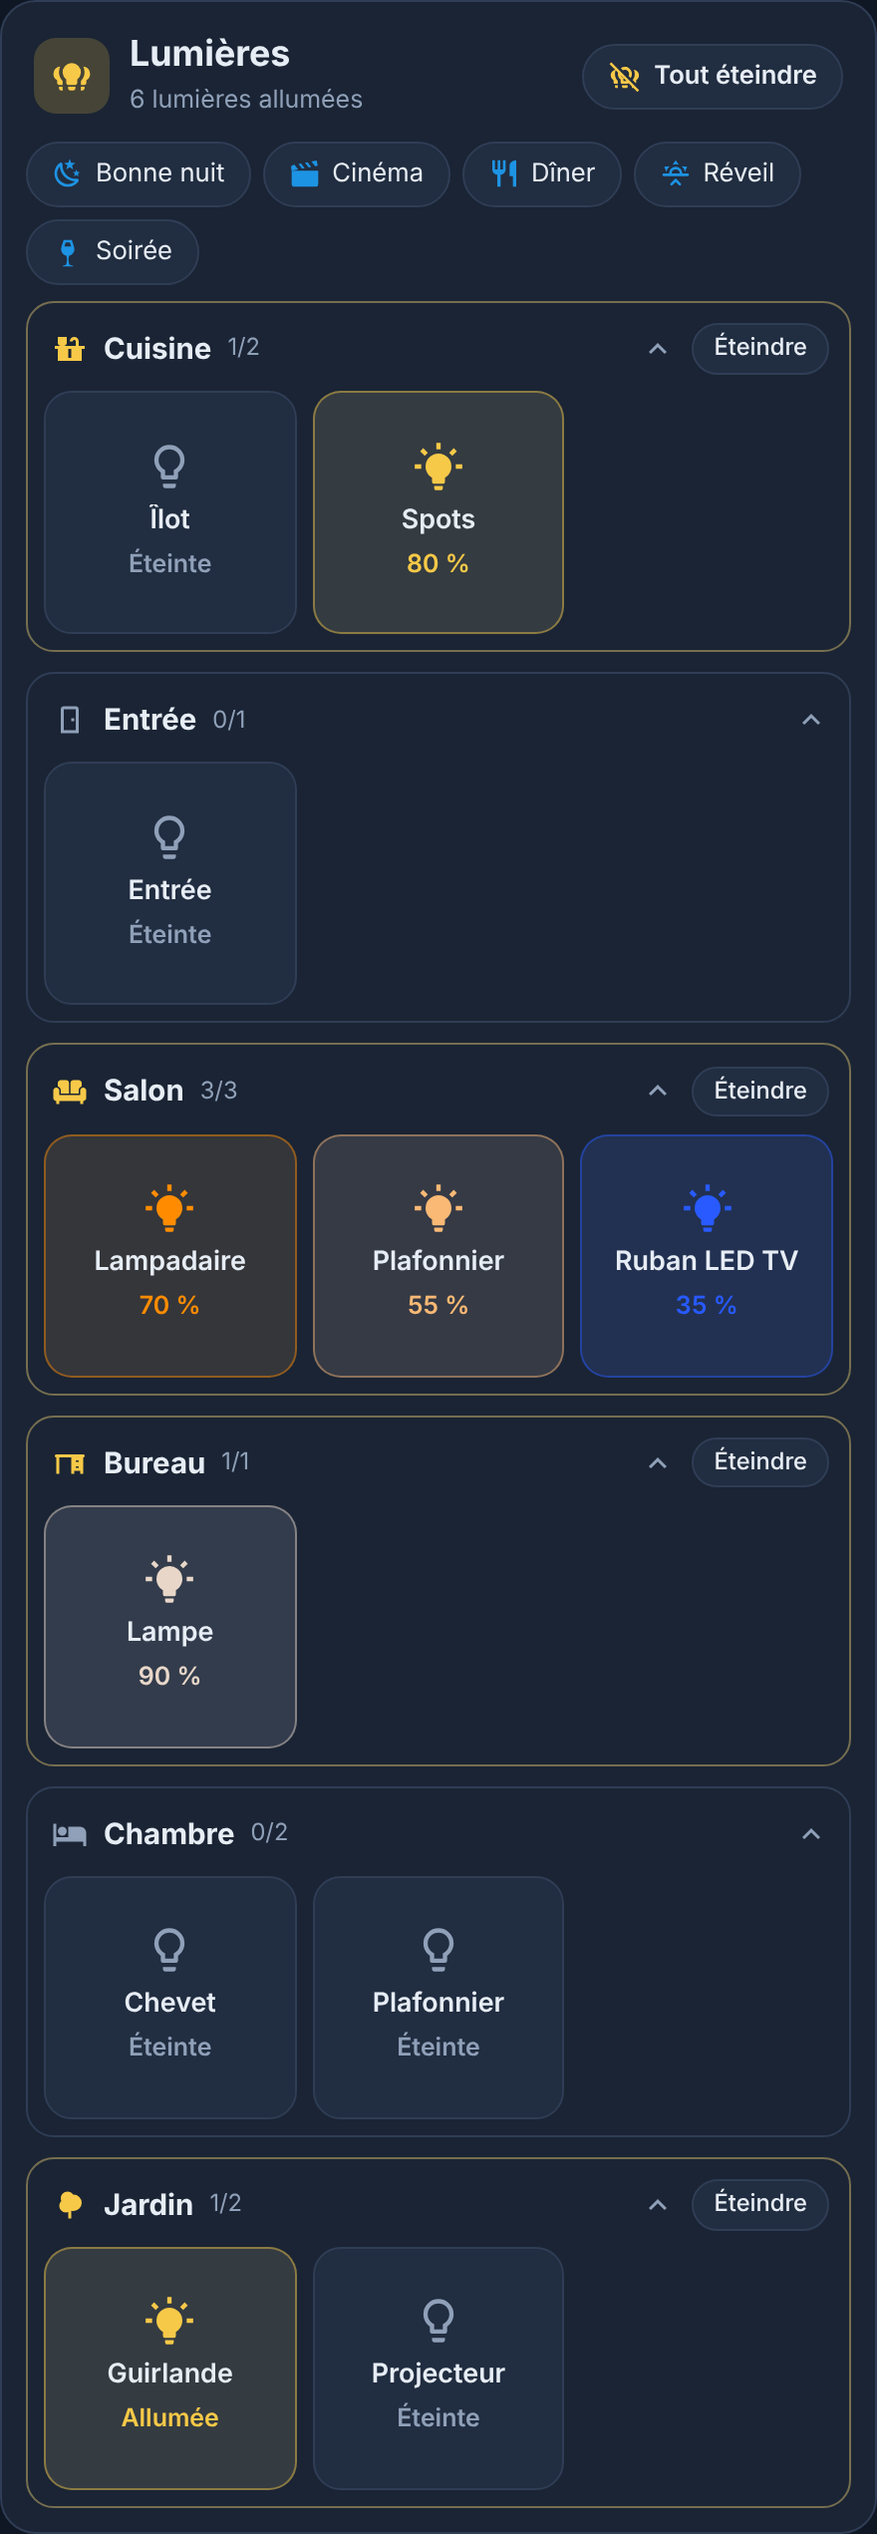
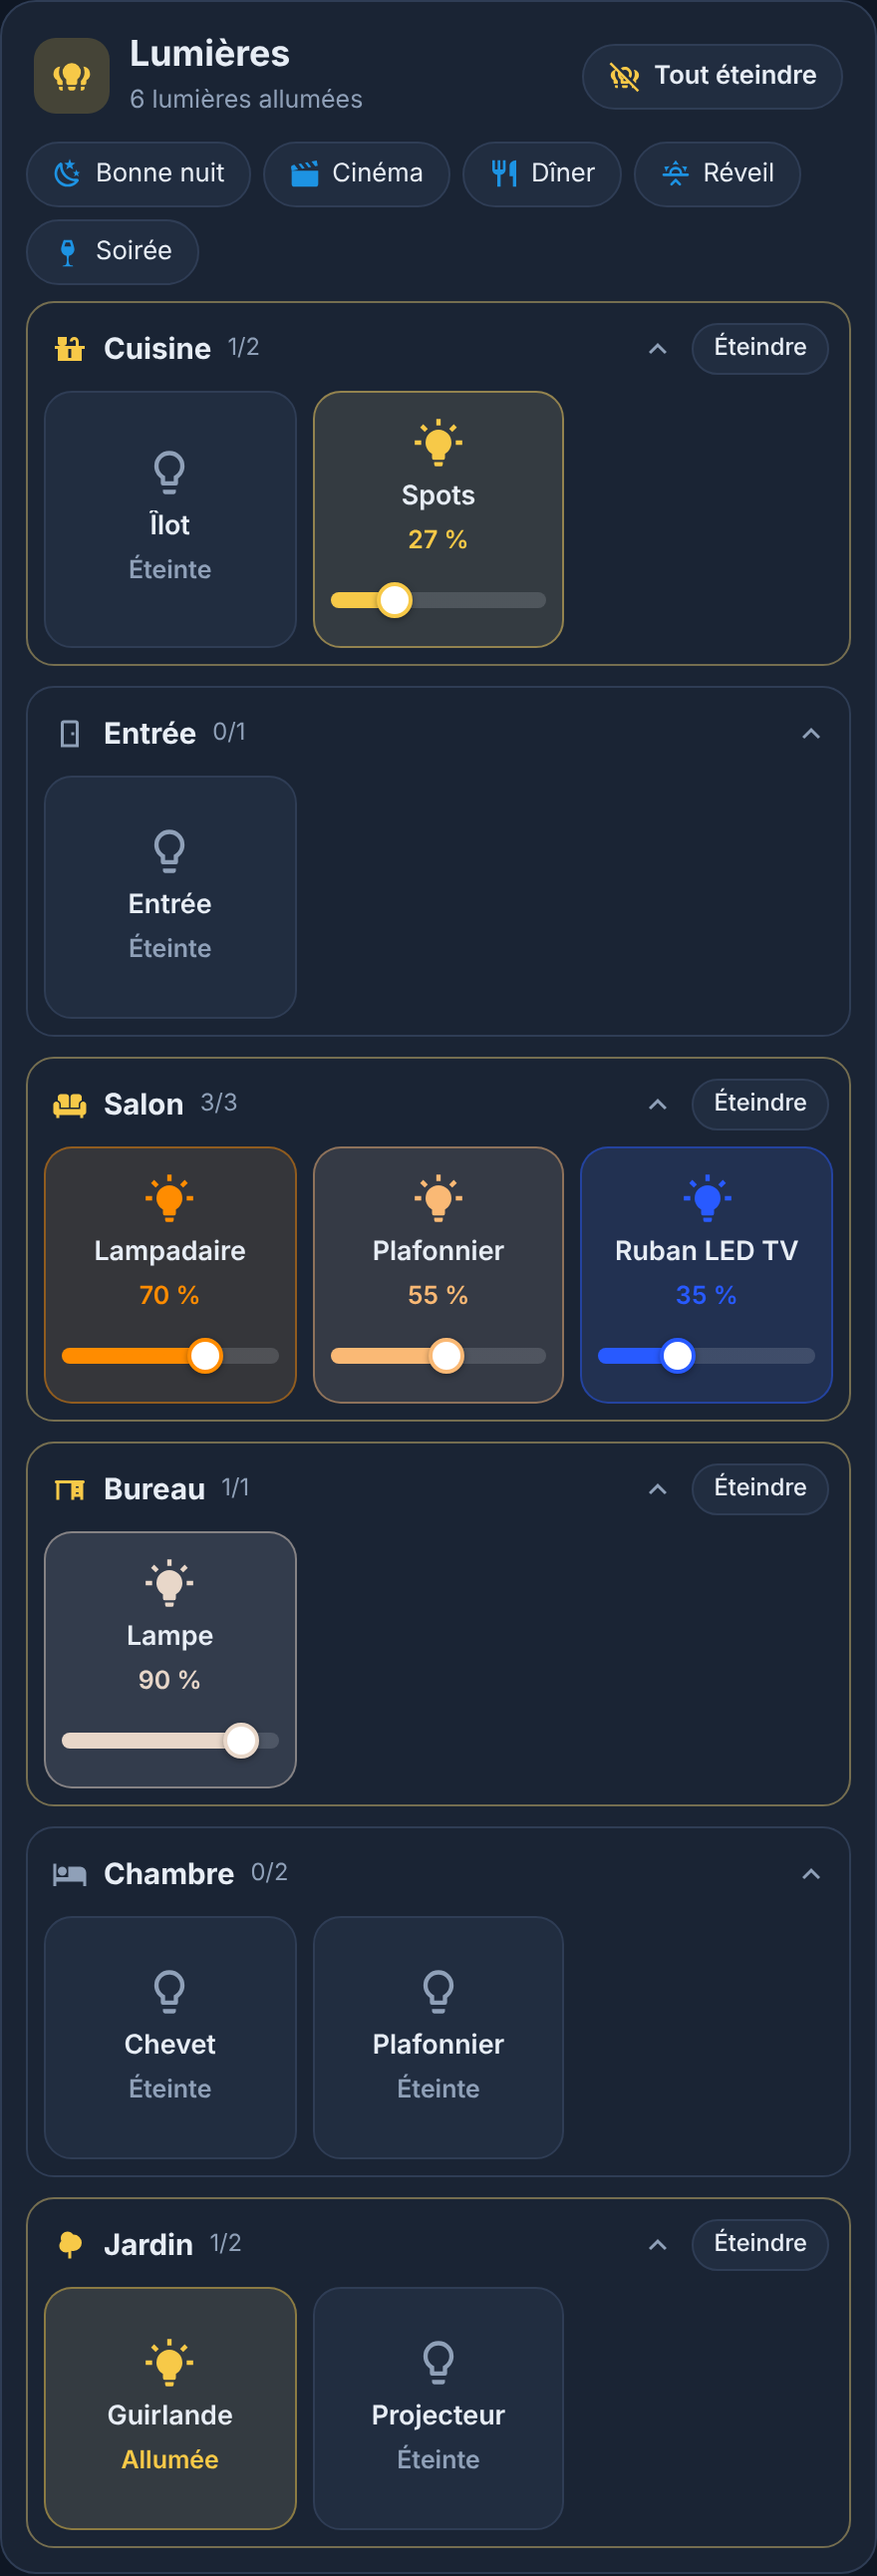
feat(boutons): curseur de luminosité sous chaque bouton (0.1.0-beta.4)
Claude-Session: https://claude.ai/code/session_01CSixJnFf4qBMac7uTfNvnW

diff --git a/lumieres-card.js b/lumieres-card.js
@@ -6,7 +6,7 @@
  * Sans configuration, la carte trouve seule les lumières et leurs pièces (zones de Home Assistant).
  */
 (() => {
-const CARD_VERSION = "0.1.0-beta.3";
+const CARD_VERSION = "0.1.0-beta.4";
 
 const DEFAULTS = {
   title: "",
@@ -183,6 +183,7 @@ class LumieresCard extends HTMLElement {
     const root = this.shadowRoot;
     root.addEventListener("click", (ev) => {
       if (this._held) { this._held = false; ev.stopPropagation(); return; } // appui long : la fiche est déjà ouverte
+      if (ev.target.matches?.("input[type=range]")) return; // curseur dans un bouton : pas de bascule
       const el = ev.target.closest?.("[data-act]");
       if (!el) return;
       const { act, id } = el.dataset;
@@ -205,7 +206,7 @@ class LumieresCard extends HTMLElement {
       if (!r.matches?.("input[type=range]")) return;
       this._dragging = true;
       r.style.setProperty("--p", `${this._pct(r)}%`);
-      const out = r.closest(".lc-slider")?.querySelector("output");
+      const out = r.closest(".lc-slider")?.querySelector("output") || r.closest(".lc-bt")?.querySelector("span");
       if (out && r.dataset.kind === "bri") out.textContent = `${r.value} %`;
     });
     root.addEventListener("change", (ev) => {
@@ -221,7 +222,7 @@ class LumieresCard extends HTMLElement {
       clearTimeout(this._holdTimer);
       this._held = false;
       const el = ev.target.closest?.("[data-hold]");
-      if (el) this._holdTimer = setTimeout(() => { this._held = true; this._moreInfo(el.dataset.hold); }, 550);
+      if (el && !ev.target.matches?.("input[type=range]")) this._holdTimer = setTimeout(() => { this._held = true; this._moreInfo(el.dataset.hold); }, 550);
     });
     for (const t of ["pointerup", "pointercancel", "pointerleave"]) root.addEventListener(t, () => clearTimeout(this._holdTimer), true);
     root.addEventListener("contextmenu", (ev) => { if (ev.target.closest?.("[data-hold]")) ev.preventDefault(); });
@@ -416,6 +417,7 @@ class LumieresCard extends HTMLElement {
       <ha-icon icon="${esc(icon)}"></ha-icon>
       <b>${esc(this._name(id))}</b>
       <span>${esc(state)}</span>
+      ${on && dimmable ? `<input class="lc-bt-r" type="range" min="1" max="100" step="1" value="${pct}" data-kind="bri" data-id="${esc(id)}" aria-label="${esc(T.brightness)}">` : ""}
     </div>`;
   }
 
@@ -570,6 +572,7 @@ input[type=range]::-moz-range-thumb { width: 14px; height: 14px; border-radius: 
 ha-card.light .lc-bt.on ha-icon, ha-card.th-ha.light .lc-bt.on ha-icon { filter: none; }
 .lc-bt.on span { color: var(--ink); }
 .lc-bt.na { cursor: default; }
+.lc-bt .lc-bt-r { width: 100%; flex: none; margin-top: 2px; touch-action: pan-y; }
 @media (prefers-reduced-motion: reduce) { * { transition: none !important; } }
 </style>`;
 

diff --git a/README.md b/README.md
@@ -39,7 +39,7 @@
 - **Blanc et couleur** : le bouton 🎨 ouvre un curseur blanc chaud ↔ froid et dix couleurs, selon ce que permet l'ampoule.
 - **Scènes** : vos scènes Home Assistant en boutons, en un clic.
 - La couleur de chaque ampoule allumée teinte son icône, son curseur et sa ligne.
-- **Deux affichages** : en **liste** (curseurs et couleurs directement dans la carte) ou en **boutons** (une tuile par lumière : un appui allume ou éteint, un appui long ouvre la fiche avec luminosité et couleur).
+- **Deux affichages** : en **liste** (curseurs et couleurs directement dans la carte) ou en **boutons** (une tuile par lumière, avec son curseur de luminosité en dessous : un appui allume ou éteint, un appui long ouvre la fiche avec la couleur).
 - **Aucune dépendance** : pas de button-card ni de card-mod. Éditeur visuel compris.
 - **Français, anglais et polonais** (langue de Home Assistant, ou au choix).
 
@@ -83,7 +83,8 @@ C'est tout : la carte trouve vos lumières et leurs pièces. Elle est aussi dans
 | Clic sur le nom d'une autre lumière | Fiche de Home Assistant |
 | Clic sur le nom d'une pièce | Replier ou déplier la pièce (mémorisé dans le navigateur) |
 | Affichage en boutons : appui | Allumer ou éteindre |
-| Affichage en boutons : appui long | Fiche de Home Assistant (luminosité, couleur) |
+| Affichage en boutons : curseur sous la tuile | Luminosité |
+| Affichage en boutons : appui long | Fiche de Home Assistant (couleur, blanc) |
 
 ### Options
 
